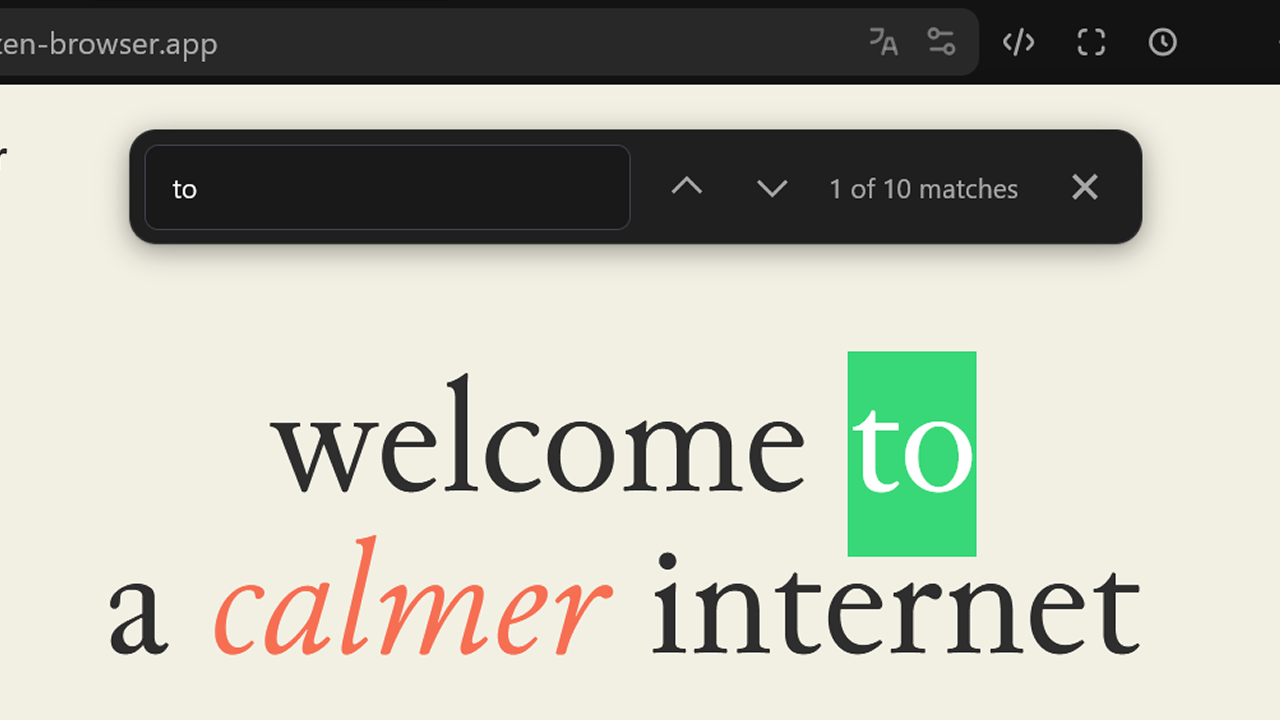
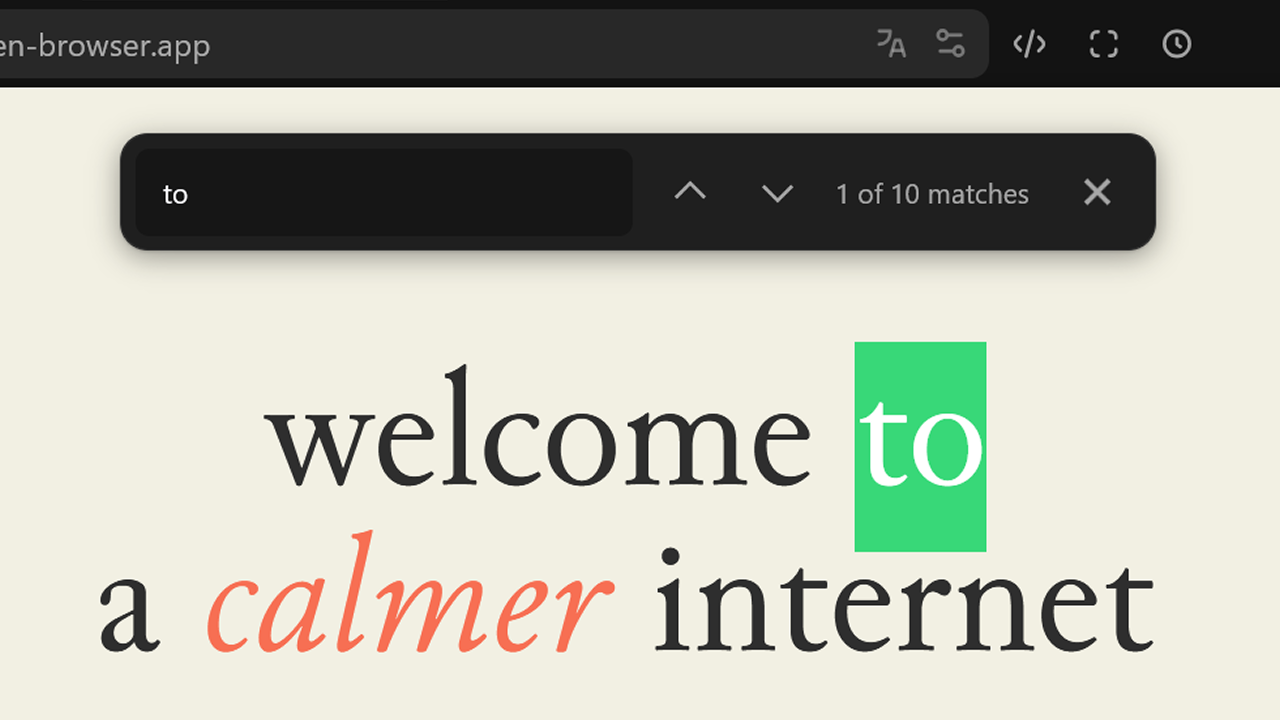
Update css and cover

diff --git a/userChrome.css b/userChrome.css
@@ -9,6 +9,7 @@ findbar {
     transform: translateX(-50%) !important;
     width: max-content !important;
     min-width: 520px !important;
+    contain: initial !important;
     border-radius: 12px !important;
     border: 1px solid var(--panel-separator-color) !important;
     background: var(--arrowpanel-background) !important;
@@ -41,12 +42,9 @@ findbar {
     border-radius: 6px !important;
     padding: 8px 12px !important;
     box-shadow: none !important;
-    
-    &:focus {
-        background-color: var(--toolbar-field-focus-background-color);
-        border: 1px solid var(--toolbar-field-focus-border-color) !important;
-        outline: none !important;
-    }
+    border: none !important;
+    outline: none !important;
+    background: var(--toolbar-field-focus-background-color) !important;
 }
 
 .findbar-find-previous,
